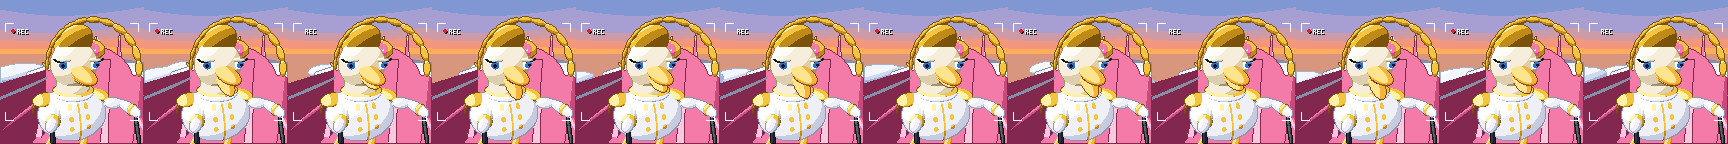
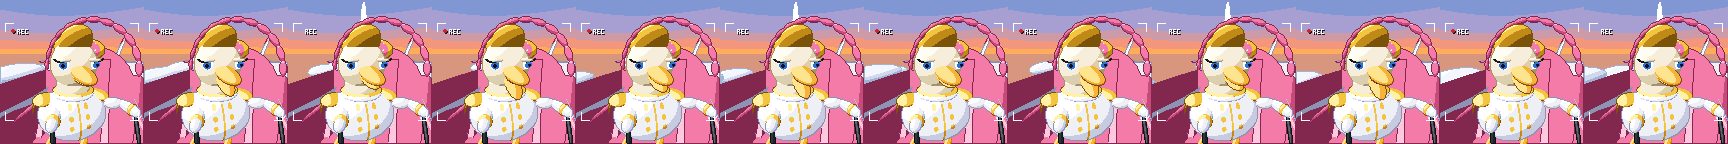
Actualiza el Hornet de Duke y la escena 9
Reemplaza el F-15EX de Duke por un F/A-18C Hornet con cabina y pintura personalizadas, tren de aterrizaje y alas plegables durante el aterrizaje. Ajusta las tomas y genera una nueva lámina para la escena 9; también actualiza imágenes y diálogos de varias escenas.

diff --git a/src/lib/escena2.js b/src/lib/escena2.js
@@ -28,7 +28,7 @@ export const TOMAS = [
     ms: 200,
     cuadros: 24,
     unaVez: true,
-    lineas: [{ texto: 'Una puerta de la torre de comando se abre lentamente.' }, { texto: 'Cuatro siluetas aparecen a contraluz.' }],
+    lineas: [{ texto: 'Una puerta de la torre de comando se abre lentamente.' }, { texto: 'Tres siluetas aparecen a contraluz.' }],
   },
   { id: 'medallas', ms: 150, cuadros: 24, unaVez: true, lineas: [{ texto: 'Duck-One camina al frente con una cantidad absurda de medallas en el pecho.' }] },
   { id: 'puro', ms: 150, cuadros: 24, unaVez: true, lineas: [{ texto: 'Moby-Duck camina con los brazos cruzados y un puro apagado en la boca.' }] },
@@ -87,7 +87,7 @@ export const TOMAS = [
     lineas: [{ texto: 'Moby-Duck se inclina sobre la mesa.' }, { quien: MOBY, texto: '¿Cuándo despegamos?' }],
   },
   { id: 'exposicion', ms: 150, segunModo: true, lineas: [{ quien: DUCK_ONE, texto: 'Cuando termine la exposición que preparé.' }] },
-  { id: 'cuanto', ms: 150, lineas: [{ quien: MOBY, texto: '¿Cuánto tiene?' }] },
+  { id: 'cuanto', ms: 150, lineas: [{ quien: MOBY, texto: '¿Cuántas diapositivas tiene, capitán?' }] },
   { id: 'diapositivas', ms: 150, segunModo: true, lineas: [{ quien: DUCK_ONE, texto: 'Cuarenta y siete diapositivas.' }] },
   { id: 'mirada', ms: 150, segunModo: true, lineas: [{ texto: 'Moby se queda mirando la pantalla.' }] },
   { id: 'motores', ms: 150, lineas: [{ quien: MOBY, texto: 'Voy calentando motores.' }] },
@@ -126,8 +126,8 @@ export const TOMAS = [
     lineas: [{ texto: 'Suena una alarma.' }, { quien: TORRE, texto: '¡Objetivo avistado frente al portaaviones!' }],
   },
   { id: 'carpeta', ms: 150, unaVez: true, lineas: [{ texto: 'Duck-One cierra la carpeta inmediatamente.' }] },
-  { id: 'perfecto', ms: 150, lineas: [{ quien: DUCK_ONE, texto: 'Perfecto. Justo donde lo planeamos.' }] },
-  { id: 'vino', ms: 150, lineas: [{ quien: ALMIRANTE, texto: 'Él vino hacia nosotros.' }] },
+  { id: 'perfecto', ms: 150, lineas: [{ quien: DUCK_ONE, texto: 'Estupefacto. Justo donde lo planeamos.' }] },
+  { id: 'vino', ms: 150, lineas: [{ quien: ALMIRANTE, texto: 'Él vino hacia nosotros…' }] },
   { id: 'plan', ms: 150, lineas: [{ quien: DUCK_ONE, texto: 'Parte del plan.' }] },
   { id: 'gira', ms: 150, unaVez: true, segunModo: true, lineas: [{ texto: 'Duck-One se gira hacia el escuadrón.' }] },
   {

diff --git a/src/lib/escena6.js b/src/lib/escena6.js
@@ -22,7 +22,7 @@ export const TOMAS = [
     ms: 200,
     cuadros: 32,
     unaVez: true,
-    lineas: [{ texto: 'NIVEL 2 — MOBY-DUCK Y DUKE SKYDUCKER.' }, { texto: '«La rabia y la belleza».' }, { texto: 'Los compañeros aparecen en el horizonte, con el sol a la espalda.' }],
+    lineas: [{ texto: 'Los compañeros aparecen en el horizonte, con el sol a la espalda.' }],
   },
   { id: 'moby', ms: 150, cuadros: 24, unaVez: true, lineas: [{ texto: 'El avión de Moby es oscuro, pesado y está cubierto de marcas de combate.' }] },
   { id: 'duke', ms: 150, cuadros: 24, unaVez: true, lineas: [{ texto: 'El de Duke brilla bajo el sol y parece recién salido de una exhibición.' }] },
@@ -44,7 +44,7 @@ export const TOMAS = [
   { id: 'humo', ms: 150, lineas: [{ quien: DUKE, texto: 'Perfecto. Intenta no taparme con humo.' }] },
 
   // Lo que graba la cámara de la cabina de Duke, de frente y por su izquierda.
-  { id: 'gira', ms: 150, cuadros: 16, unaVez: true, lineas: [{ texto: 'Duke se gira hacia la cámara de su cabina y le muestra su mejor perfil.' }] },
+  { id: 'gira', ms: 150, cuadros: 16, unaVez: true, lineas: [{ texto: 'Duke se gira hacia la cámara de su cabina y le muestra su mejor perfil y sus increíbles ojos azules.' }] },
   {
     id: 'presenta',
     ms: 150,
@@ -55,7 +55,7 @@ export const TOMAS = [
   },
   { id: 'destellos', ms: 150, lineas: [{ texto: 'Unos destellos rodean a Duke.' }] },
   { id: 'pato', ms: 150, lineas: [{ quien: MOBY, texto: '¡ERES UN PATO CON UN AVIÓN!' }] },
-  { id: 'indescriptible', ms: 150, lineas: [{ quien: DUKE, texto: 'Nah ah, soy indescriptible.' }] },
+  { id: 'indescriptible', ms: 150, lineas: [{ quien: DUKE, texto: 'Nah ah, soy indescriptibleee.' }] },
 
   // Duke lo sigue con la cabeza, y Moby se va contra quien juega.
   { id: 'acelera', ms: 150, cuadros: 24, unaVez: true, lineas: [{ texto: 'Duke sigue con la cabeza a Moby, que acelera…' }] },

diff --git a/src/lib/escena9.js b/src/lib/escena9.js
@@ -26,7 +26,7 @@ export const TOMAS = [
     ],
   },
   { id: 'tengo', ms: 150, lineas: [{ quien: MOBY, texto: '¡TENGO COMBUSTIBLE!' }] },
-  { id: 'presupuesto', ms: 150, lineas: [{ quien: TORRE, texto: 'El suyo sí. El del presupuesto no.' }] },
+  { id: 'presupuesto', ms: 150, lineas: [{ quien: TORRE, texto: 'No se consideraron en nuestros cálculos.' }] },
   { id: 'significa', ms: 150, lineas: [{ quien: MOBY, texto: '¡¿QUÉ SIGNIFICA ESO?!' }] },
   { id: 'recortado', ms: 150, lineas: [{ quien: DUKE, texto: 'Que alguien ha recortado la financiación.' }] },
   { id: 'contabilidad', ms: 150, lineas: [{ quien: MOBY, texto: '¡VOY A DESTRUIR EL DEPARTAMENTO DE CONTABILIDAD!' }] },
@@ -34,7 +34,8 @@ export const TOMAS = [
 
   { id: 'regresan', ms: 150, cuadros: 24, unaVez: true, lineas: [{ texto: 'Los dos cazas regresan al portaaviones.' }] },
   { id: 'aterrizan', ms: 150, cuadros: 32, unaVez: true, lineas: [{ texto: 'Ambos aterrizan en el Sitting Ducks.' }] },
-  { id: 'saltito', ms: 150, unaVez: true, lineas: [{ texto: 'Duke sale de un saltito…' }] },
+  // Mientras baja, detrás de él se pliegan las alas de su Hornet.
+  { id: 'saltito', ms: 150, cuadros: 24, unaVez: true, lineas: [{ texto: 'Duke sale de un saltito…' }] },
   { id: 'fuselaje', ms: 150, lineas: [{ texto: '…y aprovecha de mirarse en el fuselaje.' }] },
   {
     id: 'abolladura',

diff --git a/src/lib/escena3.js b/src/lib/escena3.js
@@ -33,7 +33,7 @@ export const TOMAS = [
     ms: 150,
     lineas: [
       { quien: DUCK_ONE, texto: 'Te recomiendo que abandones inmediatamente el espacio aéreo.' },
-      { quien: DUCK_ONE, texto: 'No quisiera verme obligado a recurrir a medidas de una complejidad balística superior.' },
+      { quien: DUCK_ONE, texto: 'No quisiera verme obligado a recurrir a medidas de una complegidad balística superior.' },
     ],
   },
   {
@@ -44,7 +44,7 @@ export const TOMAS = [
   { id: 'boton', ms: 150, unaVez: true, lineas: [{ texto: 'Pulsa un botón.' }] },
   { id: 'limpiaparabrisas', ms: 150, lineas: [{ texto: 'Se activa el limpiaparabrisas de la cabina.' }] },
   { id: 'excelente', ms: 150, lineas: [{ quien: DUCK_ONE, texto: 'Excelente. Prueba de sistemas completada.' }] },
-  { id: 'despegue', ms: 150, cuadros: 24, unaVez: true, segunModo: true, lineas: [{ texto: 'Su caza despega del Sitting Ducks.' }] },
+  { id: 'despegue', ms: 150, cuadros: 24, unaVez: true, segunModo: true, lineas: [{ texto: 'Su caza despega del Sitting Ducks…' }, { texto: { cursor: '…y se lanza contra el cursor, marcado en el cielo.', huella: '…y se lanza contra el dedo, marcado en el cielo.' } }] },
 ]
 
 export const rutaDeToma = ({ id, segunModo }, modo) => `/operacion-venganza/escena3/${id}${segunModo ? `-${modo}` : ''}.png`

diff --git a/src/lib/escena16.js b/src/lib/escena16.js
@@ -26,7 +26,8 @@ export const TOMAS = [
     ms: 150,
     cuadros: 24,
     lineas: [
-      { quien: ALMIRANTE, texto: 'Tú, quien está detrás de este plano dimensional, lograste tu objetivo.' },
+      { quien: ALMIRANTE, texto: 'Tú, quien está detrás de este plano dimensional,' },
+      { quien: ALMIRANTE, texto: 'el cual no tengo la capacidad de entender, lograste tu objetivo.' },
       { quien: ALMIRANTE, texto: 'Mataste 15 patos porque querías, nos dejaste en ridículo y ahora estamos sin defensa alguna.' },
     ],
   },
@@ -65,7 +66,7 @@ export const TOMAS = [
   { id: 'vuelve', ms: 150, cuadros: 40, unaVez: true, lineas: [{ texto: 'Vuelve a la proa, pensativo.' }] },
   { id: 'dios', ms: 150, cuadros: 24, lineas: [{ quien: ALMIRANTE, texto: 'Que sea lo que Dios quiera.' }] },
   { id: 'retira', ms: 150, cuadros: 32, unaVez: true, lineas: [{ texto: 'El almirante se retira. La cámara se queda quieta.' }] },
-  { id: 'destino', ms: 200, cuadros: 2, lineas: [{ texto: 'Queda en tus manos el destino del portaaviones «Sitting Ducks». Piensa en sus familias.' }] },
+  { id: 'destino', ms: 200, cuadros: 2, lineas: [{ texto: 'Queda en tus manos el destino del portaaviones «Sitting Ducks».' }] },
 ]
 
 export const FINALES = {

diff --git a/src/lib/escena13.js b/src/lib/escena13.js
@@ -45,7 +45,7 @@ export const TOMAS = [
   { id: 'mira', ms: 150, segunModo: true, lineas: [{ texto: 'Moby mira a Duky en el monitor.' }] },
   // La pantalla se apaga y moby se ve en ella.
   { id: 'reflejo', ms: 150, cuadros: 16, unaVez: true, segunModo: true, lineas: [{ texto: 'Después mira su propio reflejo en la pantalla apagada.' }] },
-  { id: 'nomegusta', ms: 150, lineas: [{ quien: MOBY, texto: 'No gusta el pato que veo .' }] },
+  { id: 'nomegusta', ms: 150, lineas: [{ quien: MOBY, texto: 'No me gusta el pato que veo.' }] },
 ]
 
 export const rutaDeToma = ({ id, segunModo }, modo) => `/operacion-venganza/escena13/${id}${segunModo ? `-${modo}` : ''}.png`

diff --git a/src/lib/escena10.js b/src/lib/escena10.js
@@ -56,8 +56,8 @@ export const TOMAS = [
     id: 'eficacia',
     ms: 150,
     lineas: [
-      { quien: DUCK_ONE, texto: 'La eficacia militar exige decisiones que, en ocasiones,' },
-      { quien: DUCK_ONE, texto: 'exceden los límites de la comprensión internacional.' },
+      { quien: DUCK_ONE, texto: 'La eficacia militar a veces, exige decisiones que, en ocasiones,' },
+      { quien: DUCK_ONE, texto: 'exseden los límites de la comprensión internacional.' },
     ],
   },
   // El dolly de la escena 2, más brusco.
